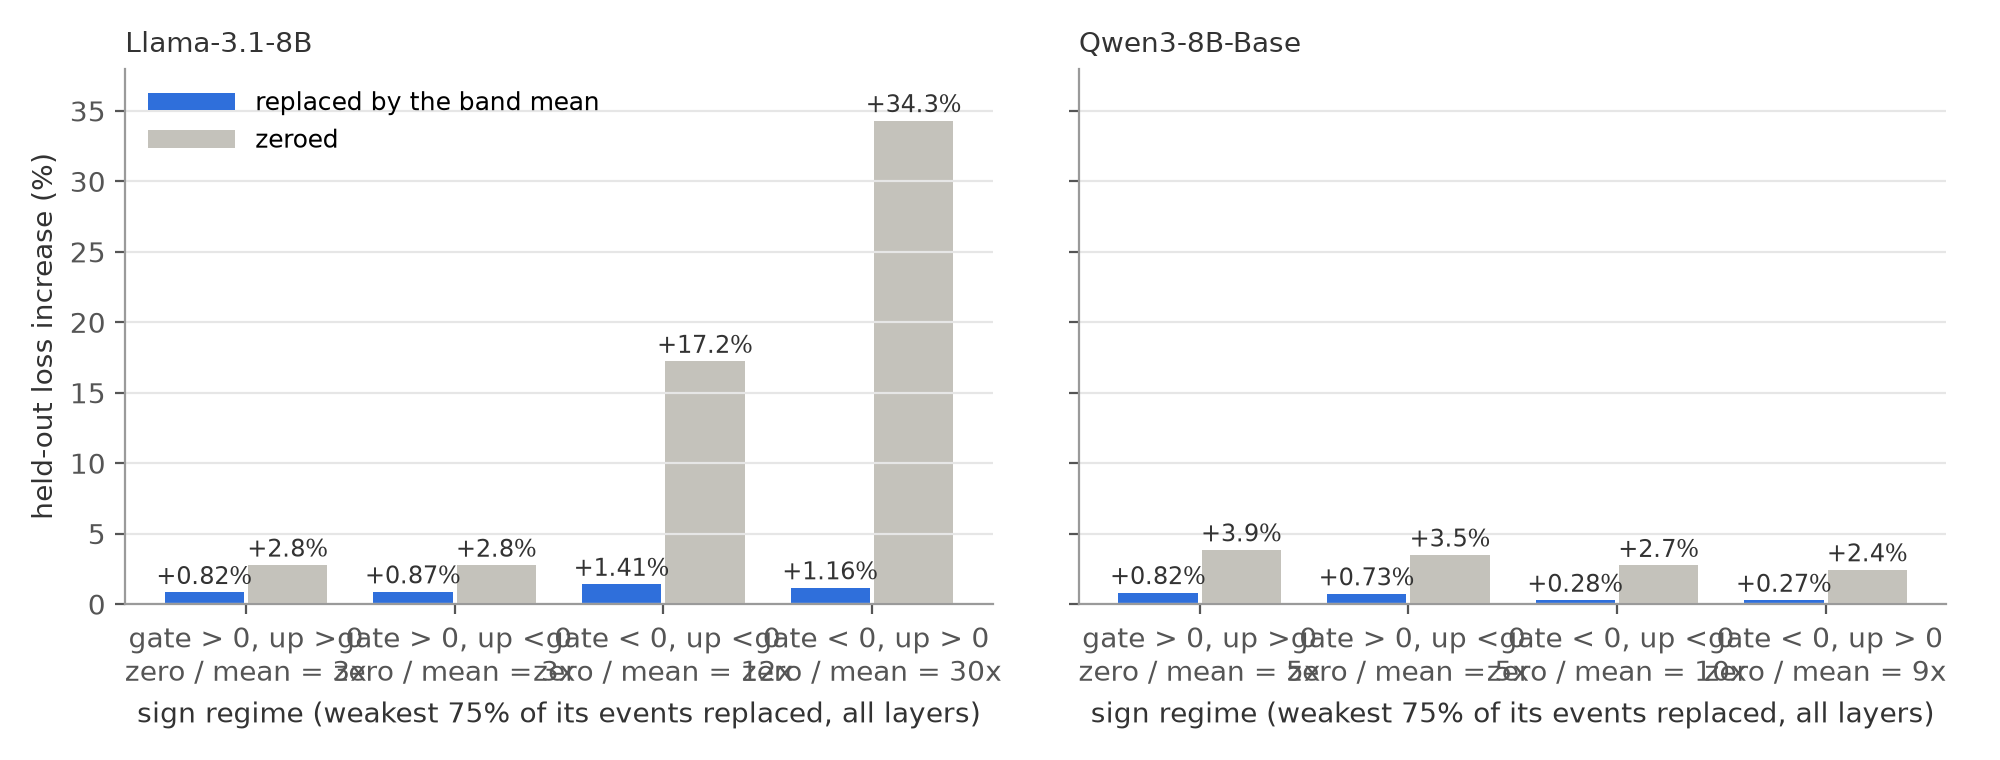
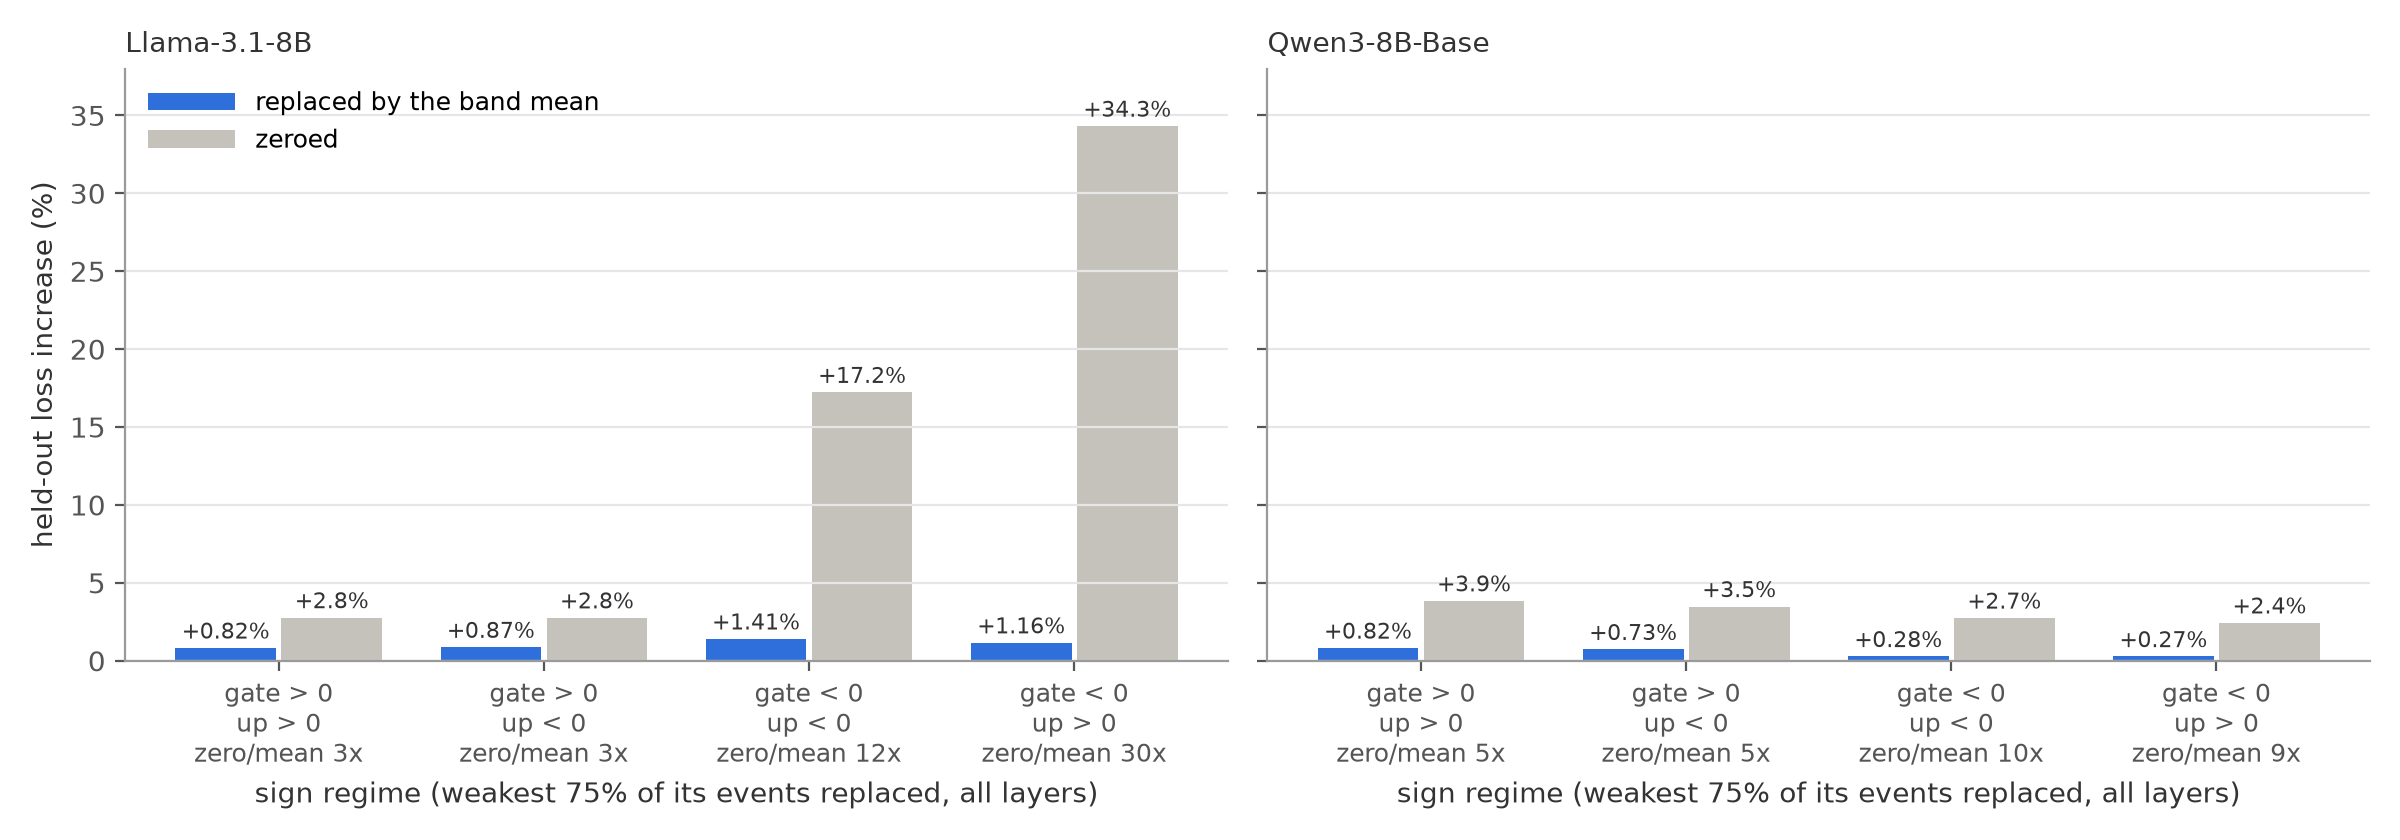
Robust letter parsing for identification; wider zero-vs-mean figure

diff --git a/src/make_figures.py b/src/make_figures.py
@@ -63,15 +63,15 @@ axes[1].set_xlabel('weakest q% of (gate > 0, up > 0) events flattened (per neuro
 save(fig, 'cost_curves.png')
 
 # 3. zero vs mean
-fig, axes = plt.subplots(1, 2, figsize=(10, 3.8), sharey=True)
+fig, axes = plt.subplots(1, 2, figsize=(12, 4.2), sharey=True)
 for ax, (tag, label) in zip(axes, TAGS):
     rows = {r['name']: r for r in rd(tag, 'summary_rows.json')}
-    quads = [('pp', 'gate > 0, up > 0'), ('pn', 'gate > 0, up < 0'), ('nn', 'gate < 0, up < 0'), ('np', 'gate < 0, up > 0')]
+    quads = [('pp', 'gate > 0\nup > 0'), ('pn', 'gate > 0\nup < 0'), ('nn', 'gate < 0\nup < 0'), ('np', 'gate < 0\nup > 0')]
     x = np.arange(4); m = [rows[f's1_q75_{q}']['dloss_pct'] for q, _ in quads]; z = [rows[f's2_q75_{q}_zero_all']['dloss_pct'] for q, _ in quads]
     ax.bar(x - 0.2, m, 0.38, color=ACC, label='replaced by the band mean'); ax.bar(x + 0.2, z, 0.38, color=GREY2, label='zeroed')
     for xi, (a, b) in enumerate(zip(m, z)):
-        ax.text(xi - 0.2, a + 0.6, f'+{a:.2f}%', ha='center', fontsize=8.5, color='#333'); ax.text(xi + 0.2, b + 0.6, f'+{b:.1f}%', ha='center', fontsize=8.5, color='#333')
-    ax.set_xticks(x); ax.set_xticklabels([f'{q}\nzero / mean = {round(b / a)}x' for (_, q), a, b in zip(quads, m, z)]); ax.set_xlabel('sign regime (weakest 75% of its events replaced, all layers)'); ax.set_title(label, loc='left', fontsize=10, color='#333'); ax.grid(axis='y', color='#e6e6e6'); ax.set_ylim(0, 38)
+        ax.text(xi - 0.2, a + 0.6, f'+{a:.2f}%', ha='center', fontsize=8, color='#333'); ax.text(xi + 0.2, b + 0.6, f'+{b:.1f}%', ha='center', fontsize=8, color='#333')
+    ax.set_xticks(x); ax.set_xticklabels([f'{q}\nzero/mean {round(b / a)}x' for (_, q), a, b in zip(quads, m, z)], fontsize=9); ax.set_xlabel('sign regime (weakest 75% of its events replaced, all layers)'); ax.set_title(label, loc='left', fontsize=10, color='#333'); ax.grid(axis='y', color='#e6e6e6'); ax.set_ylim(0, 38)
 axes[0].set_ylabel('held-out loss increase (%)'); axes[0].legend(frameon=False, fontsize=9, handlelength=3.5)
 save(fig, 'zero_vs_mean.png')
 

diff --git a/src/judge_identify.py b/src/judge_identify.py
@@ -17,8 +17,7 @@ def ask(items):
               "descriptions (A-D) is of the upstream neuron that contributed most to that firing; the other three are drivers of unrelated firings. "
               f"Pick the real one. Return only a JSON array of {len(items)} letters in order, e.g. [\"B\",\"A\",...].\n\n" + '\n\n'.join(lines))
     txt = call(prompt, 300); m = re.search(r'\[[^\]]*\]', txt)
-    try: arr = json.loads(m.group(0)) if m else []
-    except Exception: arr = []
+    arr = re.findall(r'[ABCD]', m.group(0)) if m else re.findall(r'\b[ABCD]\b', txt)
     return arr if len(arr) == len(items) else [None] * len(items)
 
 
